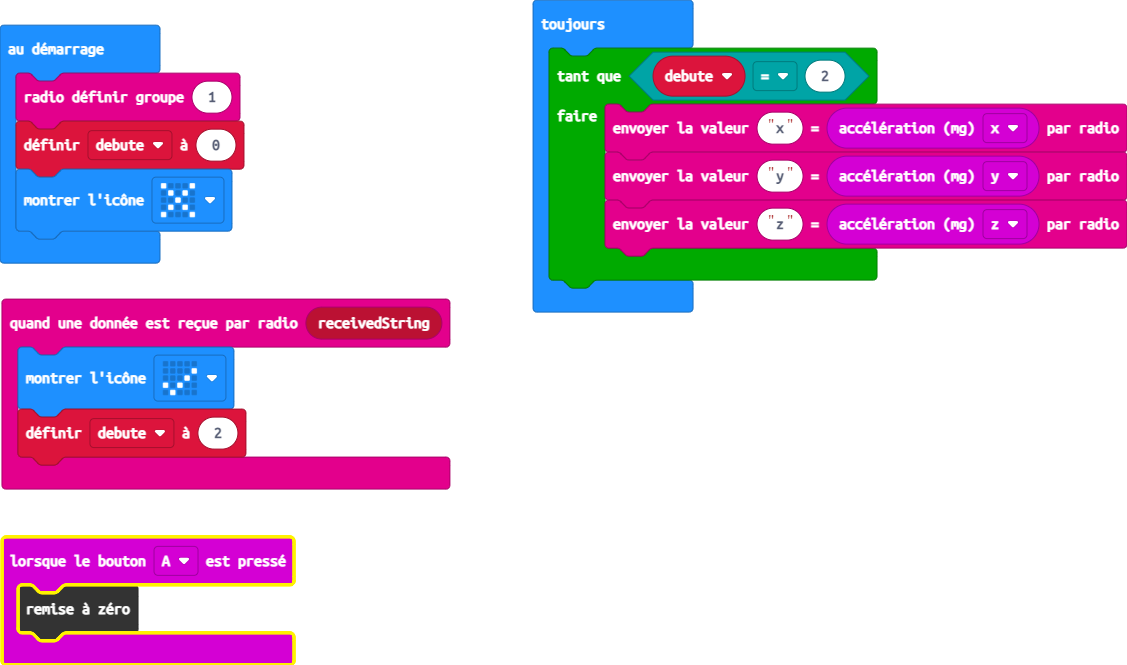
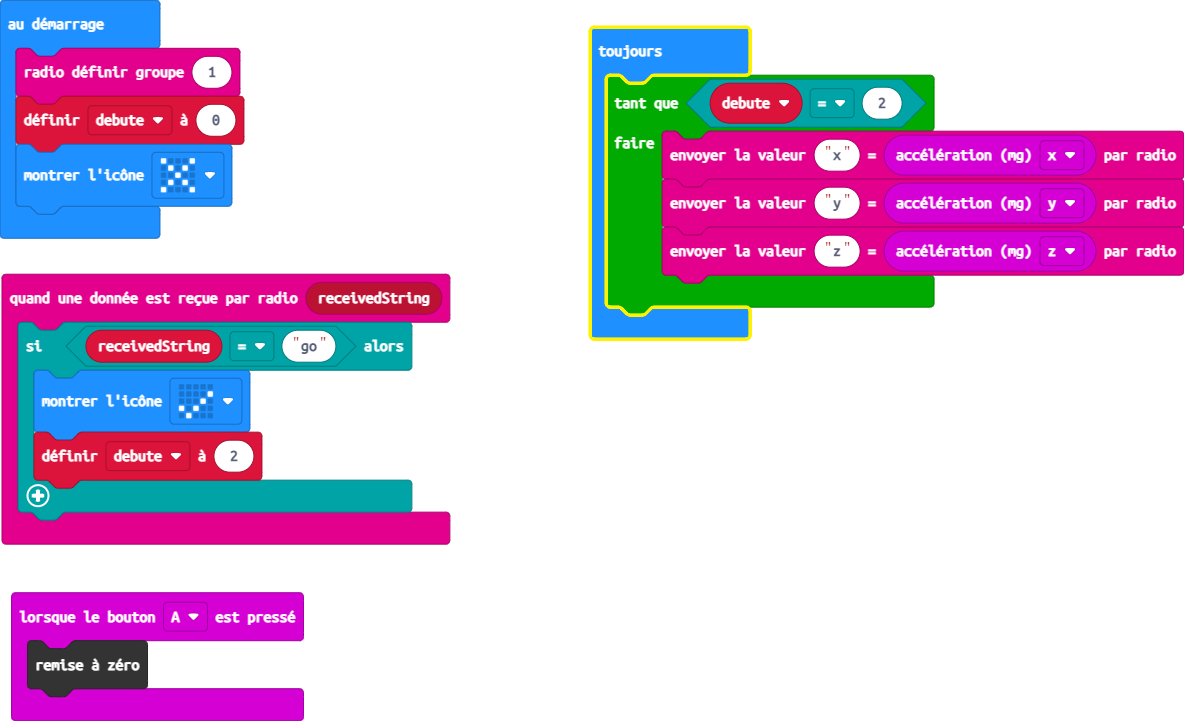
Mise à jour main.blocks, main.ts

Changed region(s): [[0.0, 0.0, 0.4037, 1.0], [0.4658, 0.0, 1.0, 0.4812]]

diff --git a/main.ts b/main.ts
@@ -2,8 +2,10 @@ input.onButtonPressed(Button.A, function () {
     control.reset()
 })
 radio.onReceivedString(function (receivedString) {
-    basic.showIcon(IconNames.Yes)
-    debute = 2
+    if (receivedString == "go") {
+        basic.showIcon(IconNames.Yes)
+        debute = 2
+    }
 })
 let debute = 0
 radio.setGroup(1)
